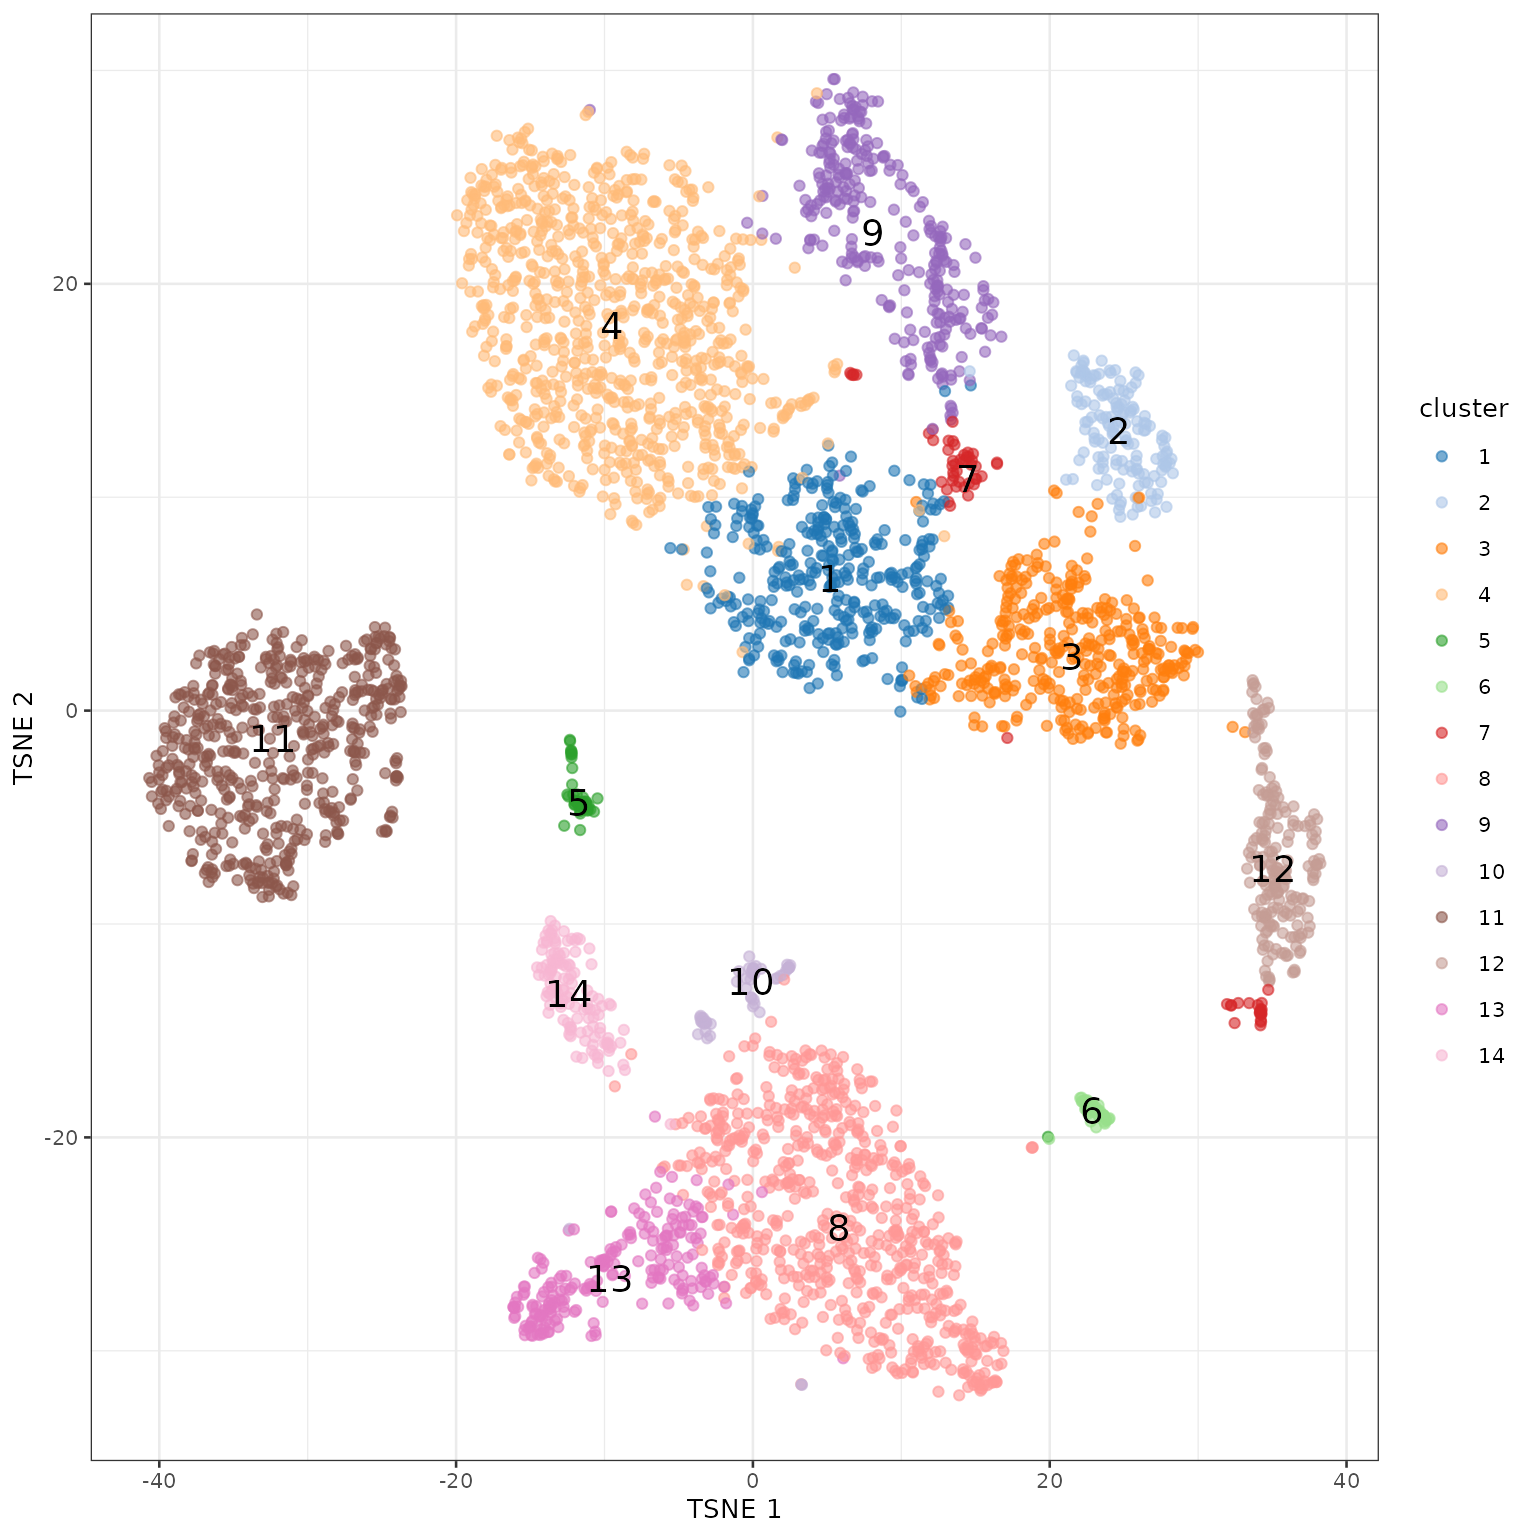
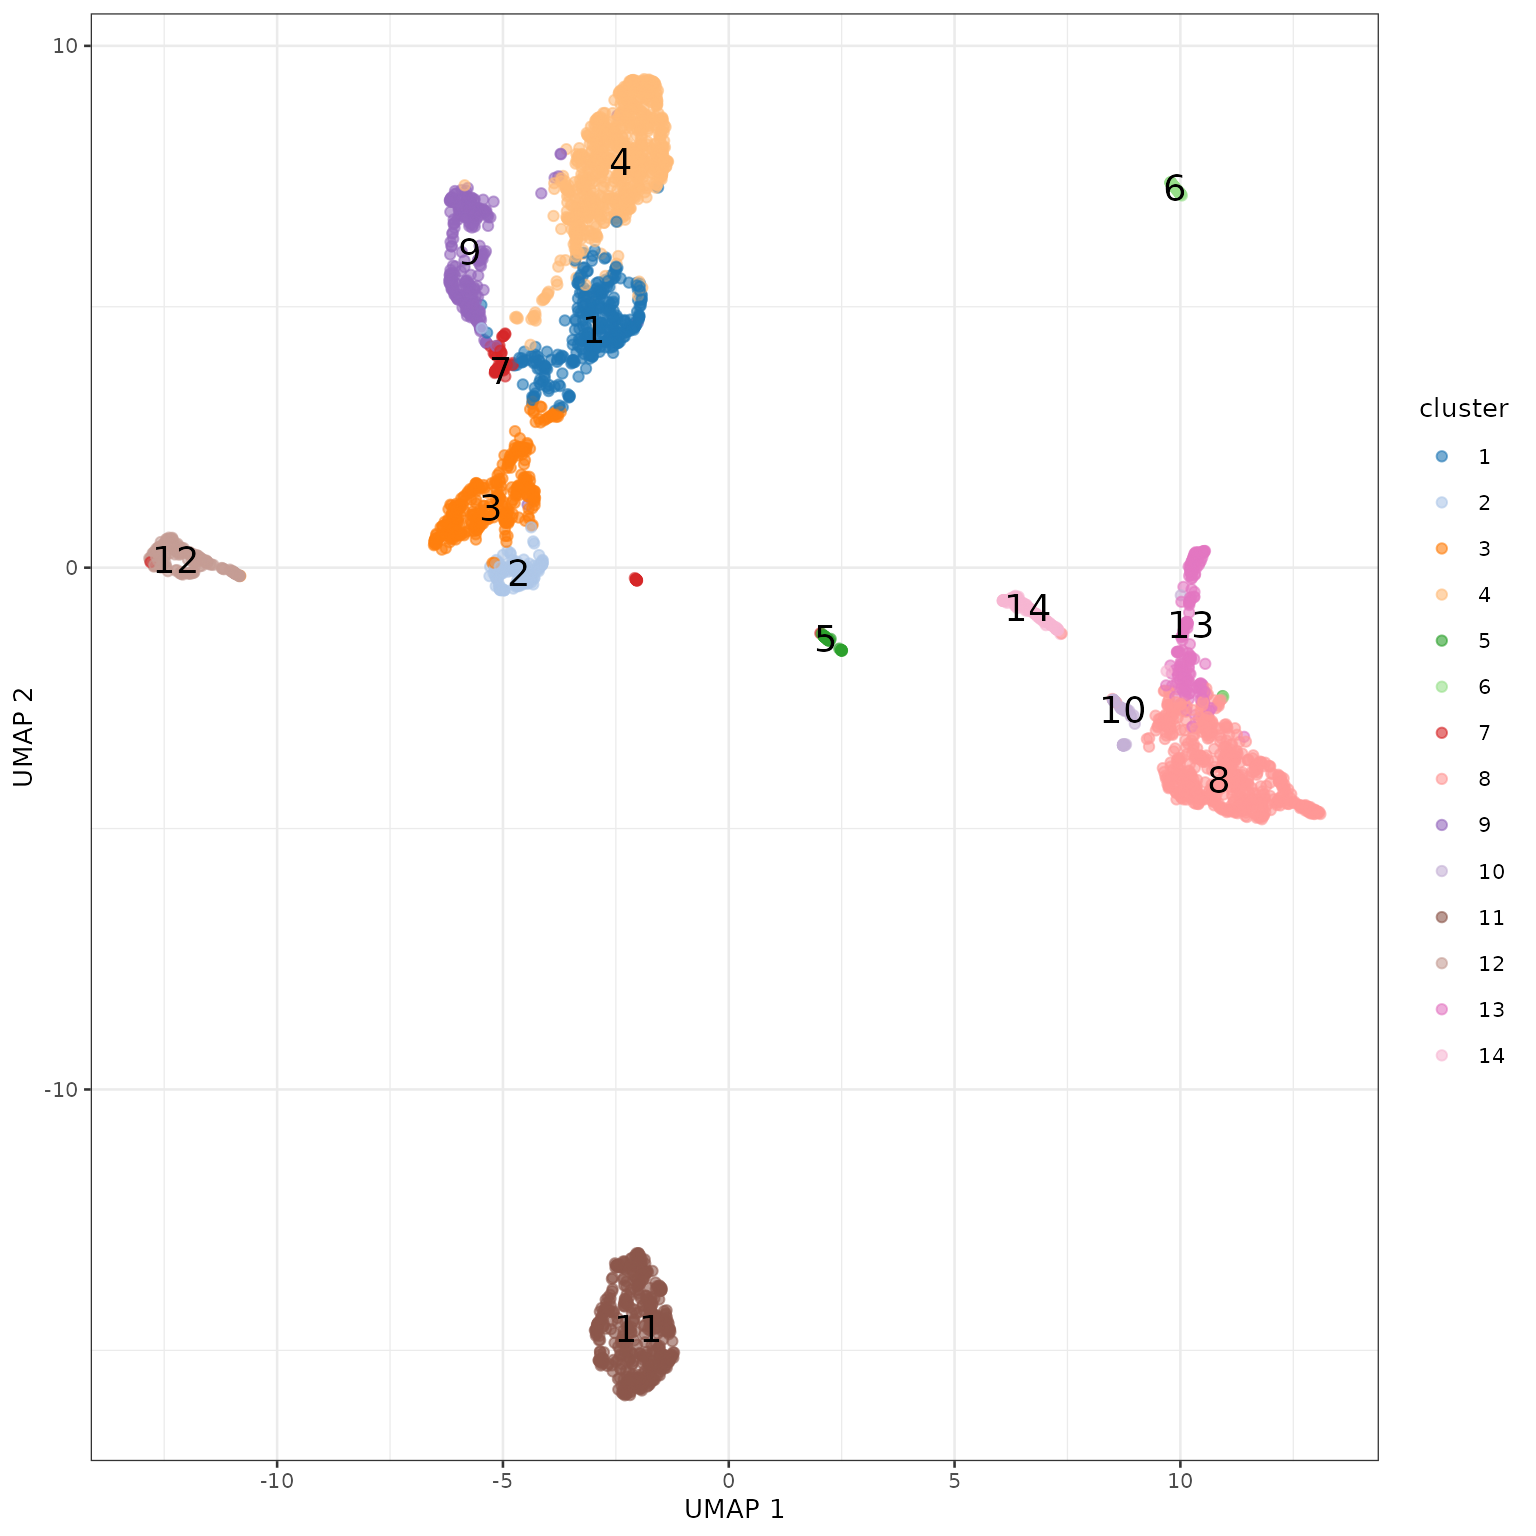
Deploying to gh-pages from  @ 06bfaa2818e487728045b81a082e99def45dddb5 🚀

diff --git a/articles/sc_analysis.html b/articles/sc_analysis.html
@@ -115,7 +115,7 @@
 <ul>
 <li>DropletUtils</li>
 <li>scran</li>
-<li>scater</li>
+<li>scater # singleR</li>
 </ul>
 </div>
 <div id="time-outline" class="section level3">
@@ -129,7 +129,7 @@
 <tbody>
 <tr class="odd">
 <td>Introduction to scRNA-seq</td>
-<td>10m</td>
+<td>15m</td>
 </tr>
 <tr class="even">
 <td>Analysis workflow</td>
@@ -137,7 +137,7 @@
 </tr>
 <tr class="odd">
 <td>Hands on session</td>
-<td>15m</td>
+<td>10m</td>
 </tr>
 <tr class="even">
 <td>Q &amp; A</td>
@@ -168,13 +168,12 @@
 <p>由于在mRNA分子的捕获，逆转录，测序过程中存在一定的技术误差，相同细胞的计数深度可能不相同。我们需要在进行细胞之间的比对之前，先尽可能的排除采样效应。进行数据标准化，使得细胞之间存在可比性。这里我们使用<code>scran</code>(Lun et al,2016a)，一种允许更多细胞异质性的方法。</p>
 <pre><code>##     Min.  1st Qu.   Median     Mean  3rd Qu.     Max. 
 ##  0.00749  0.71207  0.87490  1.00000  1.09900 12.25412</code></pre>
-<p><img src="sc_analysis_files/figure-html/unnamed-chunk-11-1.png" width="768"></p>
 </div>
 <div id="特征选择" class="section level3">
 <h3 class="hasAnchor">
 <a href="#%E7%89%B9%E5%BE%81%E9%80%89%E6%8B%A9" class="anchor"></a>特征选择</h3>
 <p>为了减轻下游分析工具的计算负担，减少数据中的噪声，我们需要先进行特征选择。</p>
-<p><img src="sc_analysis_files/figure-html/unnamed-chunk-13-1.png" width="768"></p>
+<p><img src="sc_analysis_files/figure-html/unnamed-chunk-12-1.png" width="768"></p>
 <p>特征选择后，单细胞表达矩阵的维数可以通过专门的降维算法进一步降低。使得数据可以直观可视化，并且将数据简化为基本组成部分。</p>
 <pre><code>## [1] 9</code></pre>
 </div>
@@ -190,6 +189,8 @@
 ##   1   2   3   4   5   6   7   8   9  10  11  12  13  14 
 ## 353 152 376 857  48  46  68 661 287  53 541 198 219 126</code></pre>
 <p>使用tSNE对聚类进行可视化。</p>
+<p><img src="sc_analysis_files/figure-html/unnamed-chunk-16-1.png" width="768"></p>
+<p>使用UMAP对聚类进行可视化。</p>
 <p><img src="sc_analysis_files/figure-html/unnamed-chunk-17-1.png" width="768"></p>
 </div>
 <div id="寻找聚类特异表达基因" class="section level3">
@@ -254,22 +255,23 @@
 ## [66] "HLA-DRB1"     "HLA-DQA1"     "HLA-DPB1"     "HLA-DRA"      "HLA-DPA1"</code></pre>
 <p>查看特定基因在不同cluster的表达量。</p>
 <p><img src="sc_analysis_files/figure-html/unnamed-chunk-22-1.png" width="768"></p>
-<p>使用热图对marker gene进行可视化。</p>
 <p><img src="sc_analysis_files/figure-html/unnamed-chunk-23-1.png" width="768"></p>
+<p>使用热图对marker gene进行可视化。</p>
+<p><img src="sc_analysis_files/figure-html/unnamed-chunk-24-1.png" width="768"></p>
 </div>
 </div>
 <div id="使用singler进行细胞类型注释" class="section level2">
 <h2 class="hasAnchor">
 <a href="#%E4%BD%BF%E7%94%A8singler%E8%BF%9B%E8%A1%8C%E7%BB%86%E8%83%9E%E7%B1%BB%E5%9E%8B%E6%B3%A8%E9%87%8A" class="anchor"></a>使用<code>singleR</code>进行细胞类型注释</h2>
-<p>我们选择 BlueprintEncodeData() 来作为参考数据。</p>
+<p>我们选择 BlueprintEncodeData() 来作为参考数据。(Martens and Stunnenberg 2013; The ENCODE Project Consortium 2012)</p>
 <pre><code>## 
 ##      B-cells CD4+ T-cells CD8+ T-cells           DC  Eosinophils Erythrocytes 
 ##          549          773         1274            1            1            5 
 ##          HSC    Monocytes     NK cells 
 ##           14         1117          251</code></pre>
-<p><img src="sc_analysis_files/figure-html/unnamed-chunk-26-1.png" width="768"></p>
-<p>利用每个cluster和对每个细胞计算得到的可能细胞类型画heatmap。</p>
 <p><img src="sc_analysis_files/figure-html/unnamed-chunk-27-1.png" width="768"></p>
+<p>利用每个cluster和对每个细胞计算得到的可能细胞类型画heatmap。</p>
+<p><img src="sc_analysis_files/figure-html/unnamed-chunk-28-1.png" width="768"></p>
 </div>
   </div>
 
